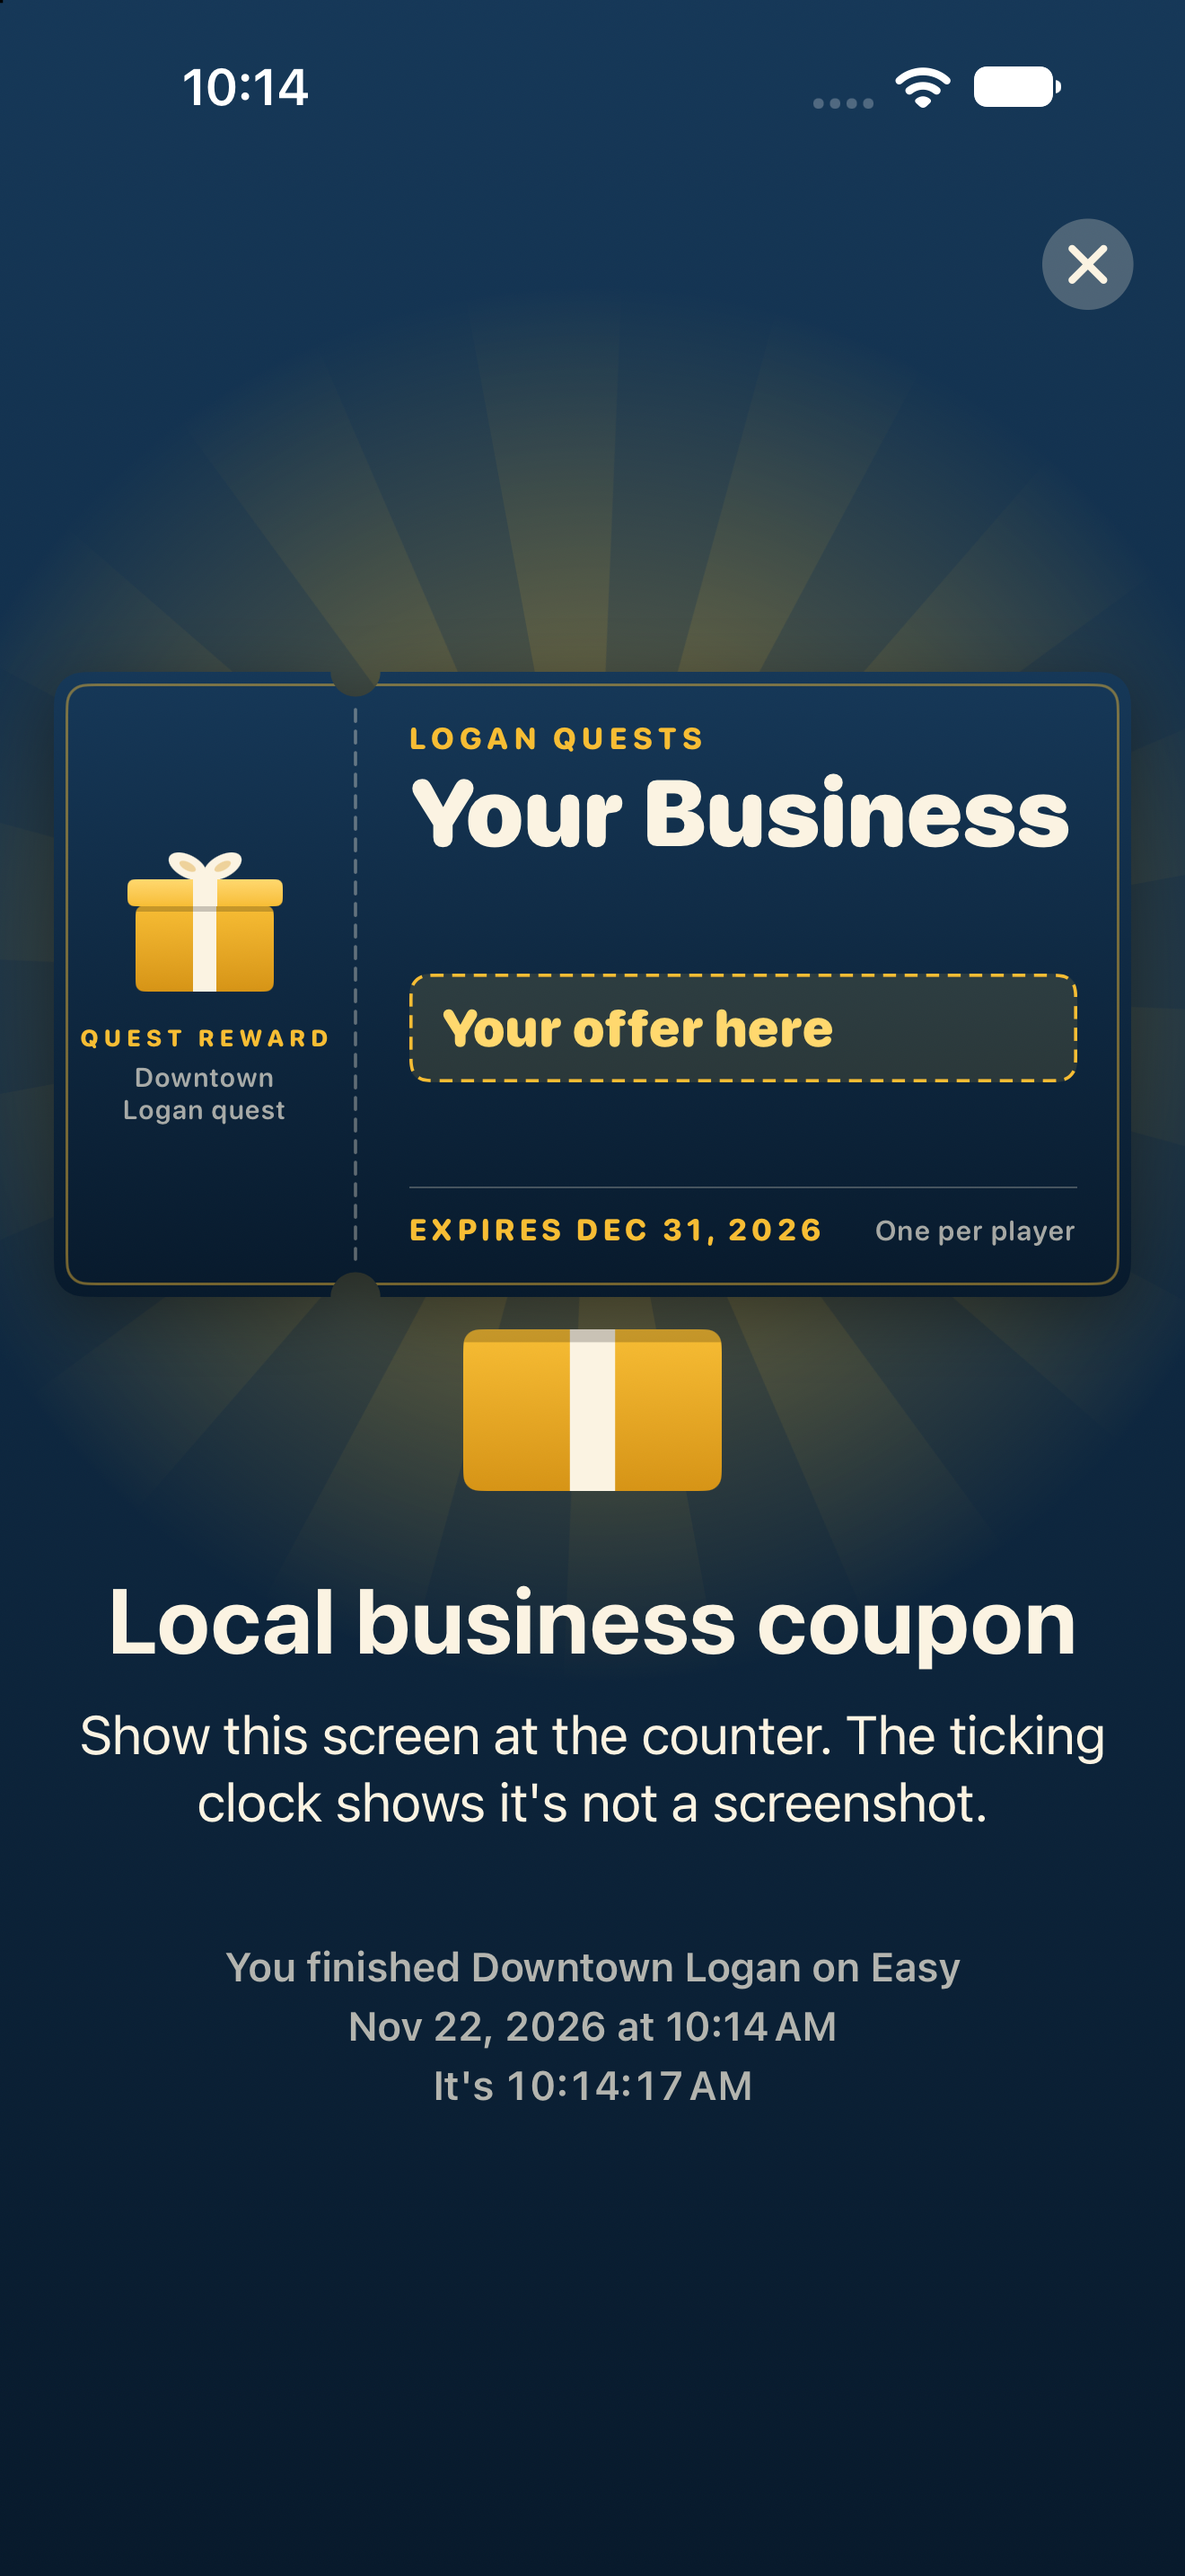
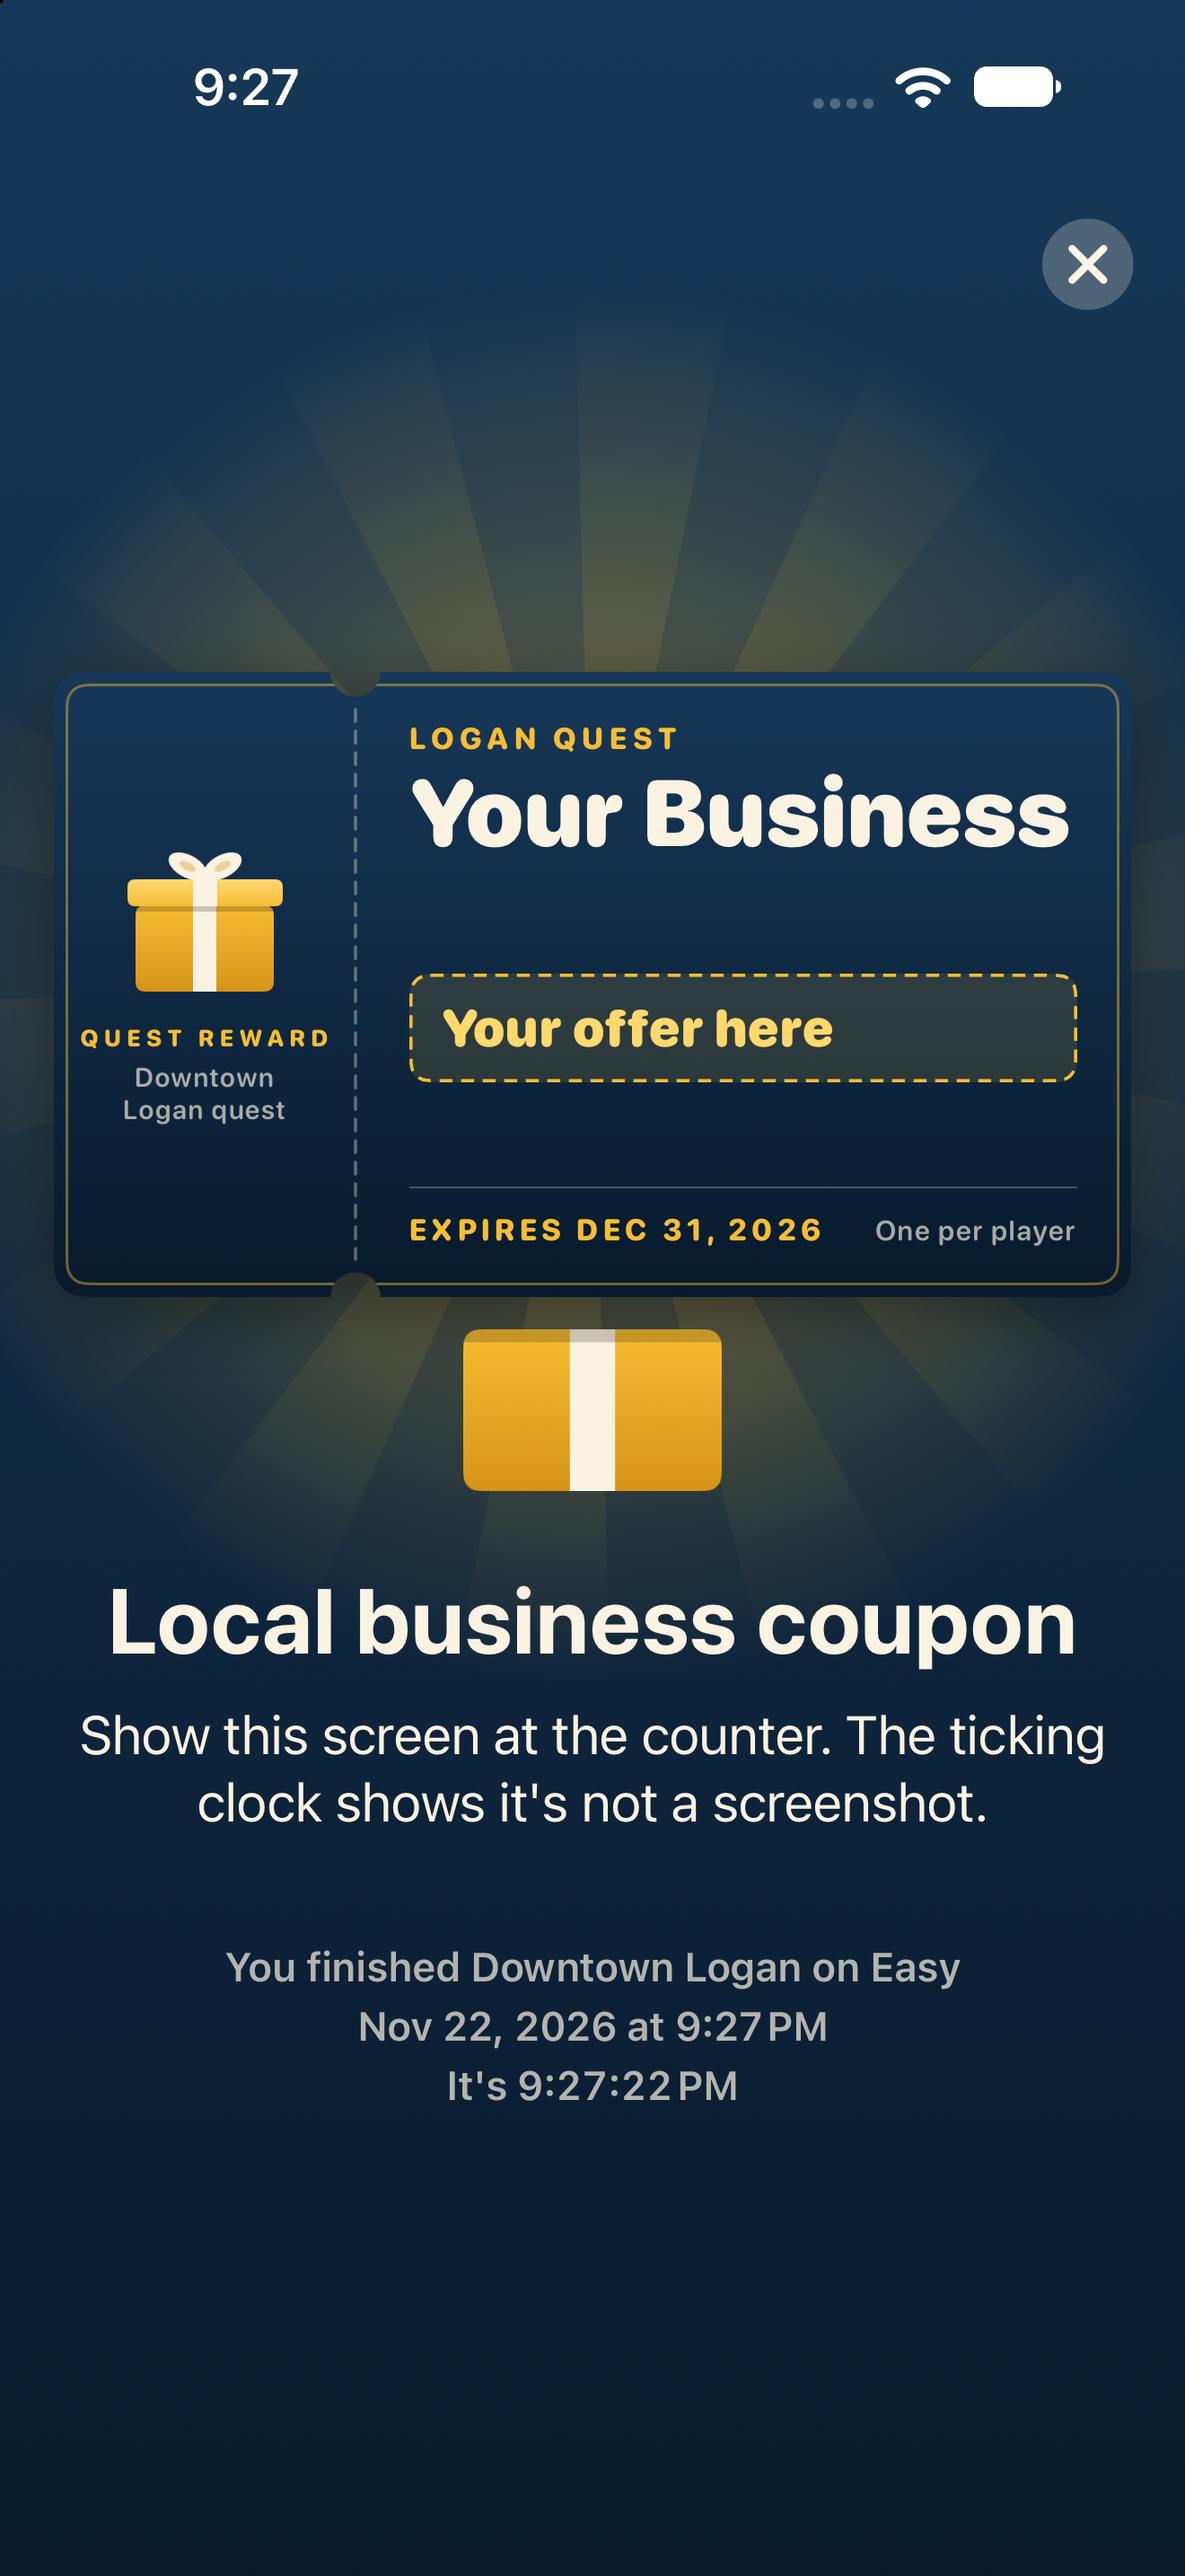
Make the coupon say Logan Quest, not Logan Quests
The rename missed the coupon's heading in the app and on the pitch coupon.
Redraw the pitch coupon, retake the App Store screenshots, and note in
CLAUDE.md that everything shows the singular name.

Changed region(s): [[0.2795, 0.7758, 0.7144, 0.8379], [0.1553, 0.031, 0.2485, 0.0621]]

diff --git a/LoganQuest/CouponView.swift b/LoganQuest/CouponView.swift
@@ -67,7 +67,7 @@ struct CouponView: View {
 
     private func mainSide(w: CGFloat, expired: Bool) -> some View {
         VStack(alignment: .leading, spacing: 0) {
-            Text("LOGAN QUESTS")
+            Text("LOGAN QUEST")
                 .font(.system(size: w * 0.028, weight: .heavy, design: .rounded))
                 .tracking(w * 0.004)
                 .foregroundStyle(Color.questGold)

diff --git a/Partners/make_coupon.py b/Partners/make_coupon.py
@@ -92,7 +92,7 @@ def draw():
 
     # Main side
     x0 = STUB + 90
-    tracked(d, (S(x0), S(110)), "LOGAN QUESTS", font(34, "Heavy"), GOLD, 5)
+    tracked(d, (S(x0), S(110)), "LOGAN QUEST", font(34, "Heavy"), GOLD, 5)
     # The business, as big as fits (up to 230) on a fixed baseline.
     business, size = "Your Business", 230
     while font(size).getlength(business) > S(W - 110 - (x0 - 8)):

diff --git a/CLAUDE.md b/CLAUDE.md
@@ -39,7 +39,9 @@ something that doesn't build.
 
 - iPhone app (SwiftUI, iOS 18+), bundle ID `com.nikhilmath.loganquest`, Apple team
   `A5SDFXT5VB`. The home-screen and App Store name is **Logan Quest** (Nikhil renamed it from "Logan
-  Quests" on 2026-11-22; the SKU stays `loganquests`). The Xcode project and target are
+  Quests" on 2026-11-22; the SKU stays `loganquests`, since Apple doesn't let a SKU change).
+  Everything that shows the name, in the app, its images and the docs, says "Logan Quest" (or
+  "LOGAN QUEST"), never the plural. The Xcode project and target are
   still called `LoganQuest`. Don't change the team, bundle ID or entitlements in a
   commit, even to get a build working on another Mac.
 - Quests and stops live in `LoganQuest/Quest.swift`. Progress is keyed by quest and stop `id`:
